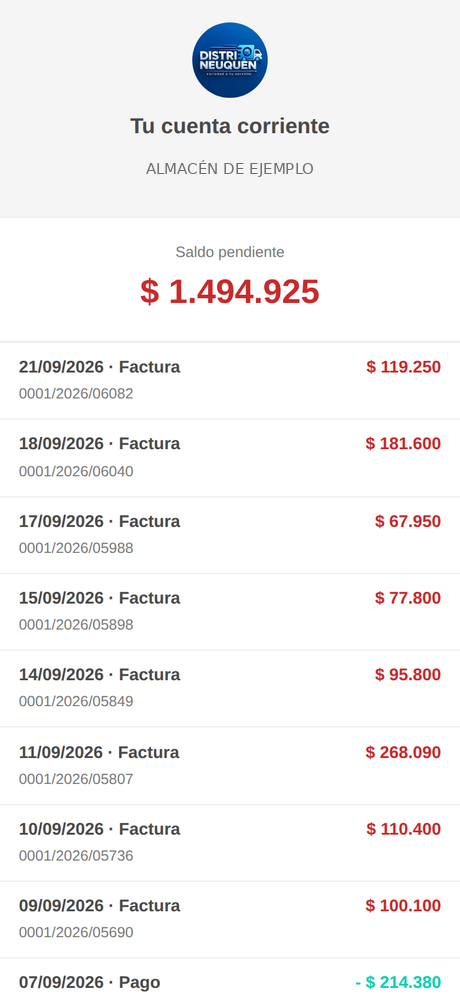
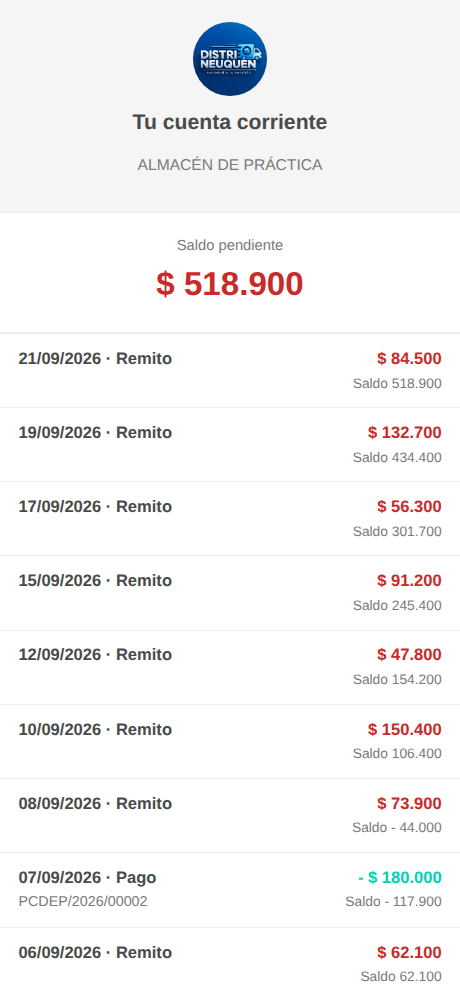
chore(presentacion): redo public screenshots with practice data
Retake cuenta.png and catalogo.png on a disposable database copy with a
fictitious customer, invented amounts and a fictitious company phone.
Track catalogo.png now that it holds no real data; cotizacion.png was
not used by any page and is removed from the server.

Bump distri_pedido to 19.0.1.34.0.

diff --git a/addons/distri_pedido/__manifest__.py b/addons/distri_pedido/__manifest__.py
@@ -1,7 +1,7 @@
 {
     "name": "Distri Neuquen - Toma de pedidos",
     "summary": "Carga de pedidos en una sola pantalla, sin login",
-    "version": "19.0.1.33.0",
+    "version": "19.0.1.34.0",
     "license": "LGPL-3",
     # website_sale aporta `is_published` en product.template, que es el
     # interruptor visible/oculto del catalogo. Sin declararlo, al instalar
